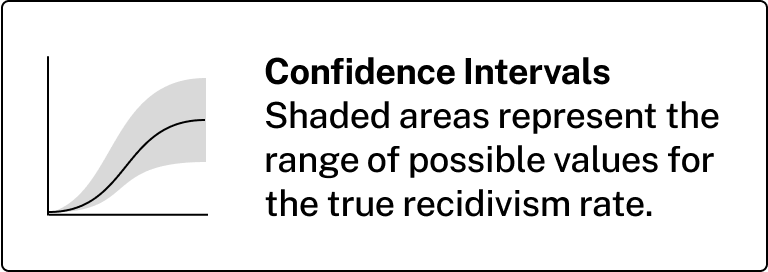
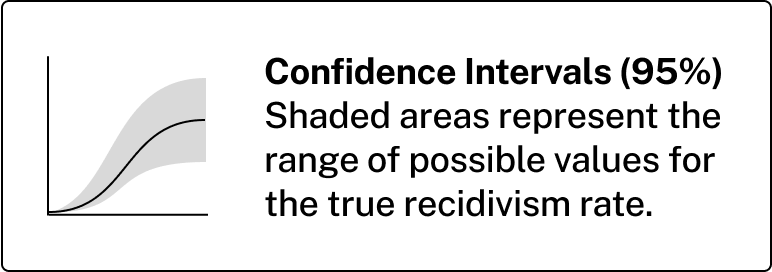
[Sentencing][Bug Bash] Add loader for rollup check (Recidiviz/recidiviz-dashboards#7884)
* [Sentencing][Bug Bash] Add loader for rollup check

* Update copy, (side) replace ci-interval png

---------

GitOrigin-RevId: 3f062500ed907684d7e2c48394334c795c7b12e8

diff --git a/libs/sentencing-client/src/components/MiniLoader/MiniLoader.tsx b/libs/sentencing-client/src/components/MiniLoader/MiniLoader.tsx
@@ -1,0 +1,107 @@
+// Recidiviz - a data platform for criminal justice reform
+// Copyright (C) 2025 Recidiviz, Inc.
+//
+// This program is free software: you can redistribute it and/or modify
+// it under the terms of the GNU General Public License as published by
+// the Free Software Foundation, either version 3 of the License, or
+// (at your option) any later version.
+//
+// This program is distributed in the hope that it will be useful,
+// but WITHOUT ANY WARRANTY; without even the implied warranty of
+// MERCHANTABILITY or FITNESS FOR A PARTICULAR PURPOSE.  See the
+// GNU General Public License for more details.
+//
+// You should have received a copy of the GNU General Public License
+// along with this program.  If not, see <https://www.gnu.org/licenses/>.
+// =============================================================================
+
+// Recidiviz - a data platform for criminal justice reform
+// Copyright (C) 2024 Recidiviz, Inc.
+//
+// This program is free software: you can redistribute it and/or modify
+// it under the terms of the GNU General Public License as published by
+// the Free Software Foundation, either version 3 of the License, or
+// (at your option) any later version.
+//
+// This program is distributed in the hope that it will be useful,
+// but WITHOUT ANY WARRANTY; without even the implied warranty of
+// MERCHANTABILITY or FITNESS FOR A PARTICULAR PURPOSE.  See the
+// GNU General Public License for more details.
+//
+// You should have received a copy of the GNU General Public License
+// along with this program.  If not, see <https://www.gnu.org/licenses/>.
+// =============================================================================
+import React from "react";
+import styled, { keyframes } from "styled-components/macro";
+
+const dotLoopAnimation = keyframes`
+    0% {
+        transform: rotate(0);
+    }
+    100% {
+        transform: rotate(360deg); 
+    }
+`;
+
+export const SVGContainer = styled.div`
+  height: 100%;
+  margin-left: 5px;
+`;
+
+export const AnimatedSVGGroup = styled.g`
+  transform-origin: 8px 8px;
+  animation: ${dotLoopAnimation} 0.8s infinite steps(8, start);
+`;
+
+export const MiniLoader: React.FC<{ dark?: boolean }> = ({ dark }) => {
+  const fillColor = dark ? "#000000" : "#ffffff";
+
+  return (
+    <SVGContainer>
+      <svg
+        xmlns="http://www.w3.org/2000/svg"
+        height="16"
+        width="16"
+        viewBox="0 0 16 16"
+      >
+        <title>Loading</title>
+        <g fill={fillColor}>
+          <AnimatedSVGGroup>
+            <circle cx="8" cy="1.5" fill={fillColor} r="1.5" opacity="0.6" />
+            <circle
+              cx="12.596"
+              cy="3.404"
+              fill={fillColor}
+              r="1.5"
+              opacity="0.8"
+            />
+            <circle cx="14.5" cy="8" fill={fillColor} r="1.5" />
+            <circle
+              cx="12.596"
+              cy="12.596"
+              fill={fillColor}
+              r="1.5"
+              opacity="0.4"
+            />
+            <circle cx="8" cy="14.5" fill={fillColor} r="1.5" opacity="0.4" />
+            <circle
+              cx="3.404"
+              cy="12.596"
+              fill={fillColor}
+              r="1.5"
+              opacity="0.4"
+            />
+            <circle cx="1.5" cy="8" fill={fillColor} r="1.5" opacity="0.4" />
+            <circle
+              cx="3.404"
+              cy="3.404"
+              fill={fillColor}
+              r="1.5"
+              opacity="0.4"
+            />
+          </AnimatedSVGGroup>
+        </g>
+      </svg>
+    </SVGContainer>
+  );
+};

diff --git a/libs/sentencing-client/src/components/CaseDetails/Form/FormFields/LsirScoreField.tsx b/libs/sentencing-client/src/components/CaseDetails/Form/FormFields/LsirScoreField.tsx
@@ -18,6 +18,7 @@
 import { observer } from "mobx-react-lite";
 import { ChangeEvent, useEffect } from "react";
 
+import { MiniLoader } from "../../../MiniLoader/MiniLoader";
 import { useStore } from "../../../StoreProvider/StoreProvider";
 import * as Styled from "../../CaseDetails.styles";
 import {
@@ -97,12 +98,15 @@ function LsirScoreField({ isRequired }: FormFieldProps) {
 
   /** Fetch insights on previously saved values */
   useEffect(() => {
-    caseStore.getInsight(
-      caseStore.caseAttributes.offense,
-      caseAttributes?.lsirScore ?? undefined,
-      caseAttributes?.isCurrentOffenseSexual ?? isCurrentOffenseSexualDefault,
-      caseAttributes?.isCurrentOffenseViolent ?? isCurrentOffenseViolentDefault,
-    );
+    if (!caseStore.insightLoading) {
+      caseStore.getInsight(
+        caseStore.caseAttributes.offense,
+        caseAttributes?.lsirScore ?? undefined,
+        caseAttributes?.isCurrentOffenseSexual ?? isCurrentOffenseSexualDefault,
+        caseAttributes?.isCurrentOffenseViolent ??
+          isCurrentOffenseViolentDefault,
+      );
+    }
     // We only need to call this once on load to update/clear previously fetched insights
     // eslint-disable-next-line react-hooks/exhaustive-deps
   }, []);
@@ -136,7 +140,13 @@ function LsirScoreField({ isRequired }: FormFieldProps) {
         </Styled.InputDescription>
       )}
 
-      {showRollup && (
+      {caseStore.insightLoading && (
+        <Styled.RollupLoading>
+          <MiniLoader dark /> Gathering historical records...
+        </Styled.RollupLoading>
+      )}
+
+      {showRollup && !caseStore.insightLoading && (
         <Styled.RollupOffenseCategory>
           <Styled.InputLabel>Recidivism Cohort</Styled.InputLabel>
           <span>{insight.rollupOffenseDescription}</span>

diff --git a/libs/sentencing-client/src/datastores/CaseStore.ts b/libs/sentencing-client/src/datastores/CaseStore.ts
@@ -18,7 +18,7 @@
 import { palette } from "@recidiviz/design-system";
 import { captureException } from "@sentry/react";
 import { keyBy } from "lodash";
-import { flowResult, makeAutoObservable } from "mobx";
+import { flowResult, makeAutoObservable, runInAction } from "mobx";
 import toast from "react-hot-toast";
 
 import { isDemoMode } from "~client-env-utils";
@@ -51,6 +51,8 @@ export class CaseStore {
 
   insight?: Insight;
 
+  insightLoading?: boolean;
+
   activeCaseId?: string;
 
   constructor(public readonly psiStore: PSIStore) {
@@ -61,6 +63,7 @@ export class CaseStore {
     this.counties = [];
     this.insight = undefined;
     this.activeCaseId = undefined;
+    this.insightLoading = false;
   }
 
   get stateCode() {
@@ -116,6 +119,10 @@ export class CaseStore {
     const gender = currentCase.client?.gender;
     if (!gender) return;
 
+    runInAction(() => {
+      this.insightLoading = true;
+    });
+
     await flowResult(
       this.loadInsight(
         offense,
@@ -125,6 +132,11 @@ export class CaseStore {
         isViolentOffense,
       ),
     );
+
+    runInAction(() => {
+      this.insightLoading = false;
+    });
+
     return this.insight;
   }
 

diff --git a/libs/sentencing-client/src/components/CaseDetails/Form/FormFields/OffenseField.tsx b/libs/sentencing-client/src/components/CaseDetails/Form/FormFields/OffenseField.tsx
@@ -211,12 +211,14 @@ function OffenseField({ isRequired }: FormFieldProps) {
 
   /** Fetch insights on previously saved values */
   useEffect(() => {
-    caseStore.getInsight(
-      caseAttributes?.offense,
-      caseStore.caseAttributes?.lsirScore ?? undefined,
-      isViolentSexOffense.isSexOffense,
-      isViolentSexOffense.isViolentOffense,
-    );
+    if (!caseStore.insightLoading) {
+      caseStore.getInsight(
+        caseAttributes?.offense,
+        caseStore.caseAttributes?.lsirScore ?? undefined,
+        isViolentSexOffense.isSexOffense,
+        isViolentSexOffense.isViolentOffense,
+      );
+    }
     // We only need to call this once on load to update/clear previously fetched insights
     // eslint-disable-next-line react-hooks/exhaustive-deps
   }, []);

diff --git a/libs/sentencing-client/src/components/CaseDetails/CaseDetails.styles.tsx b/libs/sentencing-client/src/components/CaseDetails/CaseDetails.styles.tsx
@@ -1287,6 +1287,13 @@ export const InputRowWrapper = styled.div`
   gap: 18px;
 `;
 
+export const RollupLoading = styled(InputDescription)`
+  display: flex;
+  gap: 8px;
+  align-items: center;
+  margin-top: 16px;
+`;
+
 export const RollupOffenseCategory = styled.div`
   display: flex;
   flex-direction: column;
